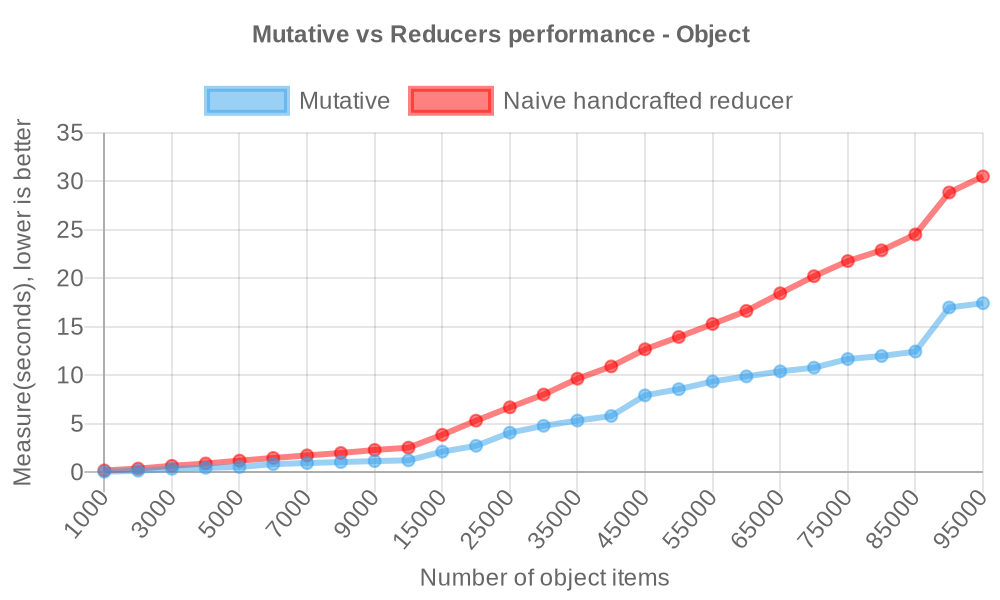
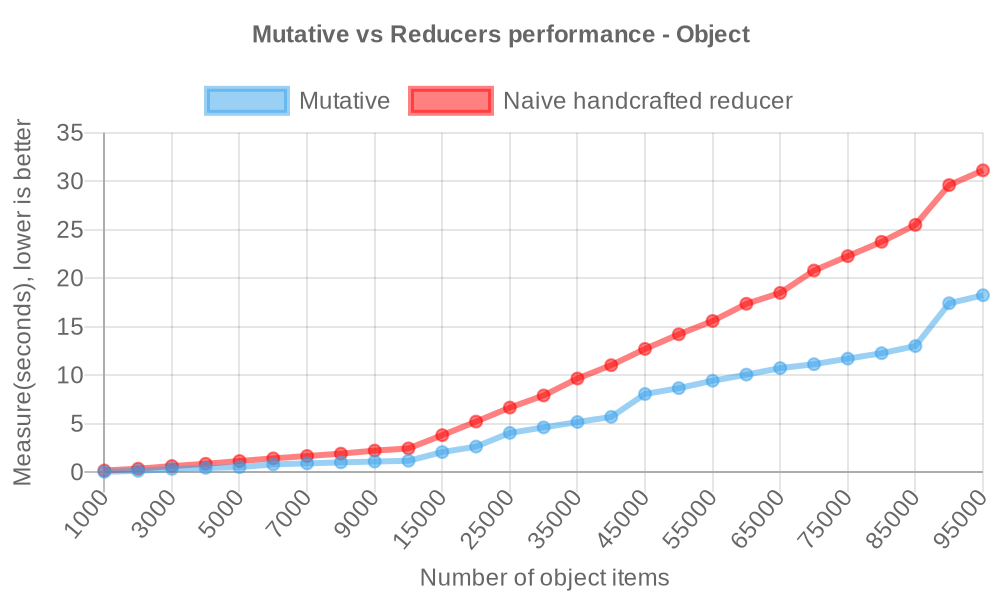
docs(perf): update perf data

diff --git a/website/docs/getting-started/performance.md b/website/docs/getting-started/performance.md
@@ -87,18 +87,18 @@ Measure(ops/sec) to update 50K arrays and 1K objects, bigger is better([view sou
 ![Benchmark](img/benchmark.jpg)
 
 ```
-Naive handcrafted reducer - No Freeze x 4,670 ops/sec ±0.64% (96 runs sampled)
-Mutative - No Freeze x 6,747 ops/sec ±0.61% (95 runs sampled)
-Immer - No Freeze x 5.65 ops/sec ±1.53% (19 runs sampled)
+Naive handcrafted reducer - No Freeze x 4,777 ops/sec ±1.06% (94 runs sampled)
+Mutative - No Freeze x 6,783 ops/sec ±0.71% (96 runs sampled)
+Immer - No Freeze x 5.72 ops/sec ±0.39% (19 runs sampled)
 
-Mutative - Freeze x 1,062 ops/sec ±0.74% (95 runs sampled)
-Immer - Freeze x 394 ops/sec ±0.85% (93 runs sampled)
+Mutative - Freeze x 1,069 ops/sec ±0.75% (97 runs sampled)
+Immer - Freeze x 392 ops/sec ±0.66% (92 runs sampled)
 
-Mutative - Patches and No Freeze x 1,011 ops/sec ±0.24% (98 runs sampled)
-Immer - Patches and No Freeze x 5.64 ops/sec ±0.22% (19 runs sampled)
+Mutative - Patches and No Freeze x 1,006 ops/sec ±1.73% (95 runs sampled)
+Immer - Patches and No Freeze x 5.73 ops/sec ±0.16% (19 runs sampled)
 
-Mutative - Patches and Freeze x 545 ops/sec ±1.19% (94 runs sampled)
-Immer - Patches and Freeze x 215 ops/sec ±0.70% (86 runs sampled)
+Mutative - Patches and Freeze x 548 ops/sec ±1.06% (94 runs sampled)
+Immer - Patches and Freeze x 287 ops/sec ±0.84% (93 runs sampled)
 
 The fastest method is Mutative - No Freeze
 ```
@@ -109,7 +109,7 @@ Run `yarn benchmark` to measure performance.
 
 Immer relies on auto-freeze to be enabled, if auto-freeze is disabled, Immer will have a huge performance drop and Mutative will have a huge performance lead, especially with large data structures it will have a performance lead of more than 50x.
 
-So if you are using Immer, you will have to enable auto-freeze for performance. Mutative is disabled auto-freeze by default. With the default configuration of both, we can see the 17x performance gap between Mutative (`6,747 ops/sec`) and Immer (`394 ops/sec`).
+So if you are using Immer, you will have to enable auto-freeze for performance. Mutative is disabled auto-freeze by default. With the default configuration of both, we can see the 17x performance gap between Mutative (`6,783 ops/sec`) and Immer (`392 ops/sec`).
 
 Overall, Mutative has a huge performance lead over Immer in [more performance testing scenarios](https://github.com/unadlib/mutative/tree/main/test/performance). Run `yarn performance` to get all the performance results locally.
 

diff --git a/website/docs/extra-topics/comparison-with-immer.md b/website/docs/extra-topics/comparison-with-immer.md
@@ -31,18 +31,18 @@ Measure(ops/sec) to update 50K arrays and 1K objects, bigger is better([view sou
 ![Benchmark](img/benchmark.jpg)
 
 ```
-Naive handcrafted reducer - No Freeze x 4,670 ops/sec ±0.64% (96 runs sampled)
-Mutative - No Freeze x 6,747 ops/sec ±0.61% (95 runs sampled)
-Immer - No Freeze x 5.65 ops/sec ±1.53% (19 runs sampled)
+Naive handcrafted reducer - No Freeze x 4,777 ops/sec ±1.06% (94 runs sampled)
+Mutative - No Freeze x 6,783 ops/sec ±0.71% (96 runs sampled)
+Immer - No Freeze x 5.72 ops/sec ±0.39% (19 runs sampled)
 
-Mutative - Freeze x 1,062 ops/sec ±0.74% (95 runs sampled)
-Immer - Freeze x 394 ops/sec ±0.85% (93 runs sampled)
+Mutative - Freeze x 1,069 ops/sec ±0.75% (97 runs sampled)
+Immer - Freeze x 392 ops/sec ±0.66% (92 runs sampled)
 
-Mutative - Patches and No Freeze x 1,011 ops/sec ±0.24% (98 runs sampled)
-Immer - Patches and No Freeze x 5.64 ops/sec ±0.22% (19 runs sampled)
+Mutative - Patches and No Freeze x 1,006 ops/sec ±1.73% (95 runs sampled)
+Immer - Patches and No Freeze x 5.73 ops/sec ±0.16% (19 runs sampled)
 
-Mutative - Patches and Freeze x 545 ops/sec ±1.19% (94 runs sampled)
-Immer - Patches and Freeze x 215 ops/sec ±0.70% (86 runs sampled)
+Mutative - Patches and Freeze x 548 ops/sec ±1.06% (94 runs sampled)
+Immer - Patches and Freeze x 287 ops/sec ±0.84% (93 runs sampled)
 
 The fastest method is Mutative - No Freeze
 ```
@@ -53,6 +53,6 @@ Run `yarn benchmark` to measure performance.
 
 Immer relies on auto-freeze to be enabled, if auto-freeze is disabled, Immer will have a huge performance drop and Mutative will have a huge performance lead, especially with large data structures it will have a performance lead of more than 50x.
 
-So if you are using Immer, you will have to enable auto-freeze for performance. Mutative is disabled auto-freeze by default. With the default configuration of both, we can see the 17x performance gap between Mutative (`6,747 ops/sec`) and Immer (`394 ops/sec`).
+So if you are using Immer, you will have to enable auto-freeze for performance. Mutative is disabled auto-freeze by default. With the default configuration of both, we can see the 17x performance gap between Mutative (`6,783 ops/sec`) and Immer (`392 ops/sec`).
 
 Overall, Mutative has a huge performance lead over Immer in [more performance testing scenarios](https://github.com/unadlib/mutative/tree/main/test/performance). Run `yarn performance` to get all the performance results locally.

diff --git a/website/blog/releases/1.0/index.md b/website/blog/releases/1.0/index.md
@@ -99,18 +99,18 @@ Measure(ops/sec) to update 50K arrays and 1K objects, bigger is better([view sou
 ![Benchmark](img/benchmark.jpg)
 
 ```
-Naive handcrafted reducer - No Freeze x 4,670 ops/sec ±0.64% (96 runs sampled)
-Mutative - No Freeze x 6,747 ops/sec ±0.61% (95 runs sampled)
-Immer - No Freeze x 5.65 ops/sec ±1.53% (19 runs sampled)
+Naive handcrafted reducer - No Freeze x 4,777 ops/sec ±1.06% (94 runs sampled)
+Mutative - No Freeze x 6,783 ops/sec ±0.71% (96 runs sampled)
+Immer - No Freeze x 5.72 ops/sec ±0.39% (19 runs sampled)
 
-Mutative - Freeze x 1,062 ops/sec ±0.74% (95 runs sampled)
-Immer - Freeze x 394 ops/sec ±0.85% (93 runs sampled)
+Mutative - Freeze x 1,069 ops/sec ±0.75% (97 runs sampled)
+Immer - Freeze x 392 ops/sec ±0.66% (92 runs sampled)
 
-Mutative - Patches and No Freeze x 1,011 ops/sec ±0.24% (98 runs sampled)
-Immer - Patches and No Freeze x 5.64 ops/sec ±0.22% (19 runs sampled)
+Mutative - Patches and No Freeze x 1,006 ops/sec ±1.73% (95 runs sampled)
+Immer - Patches and No Freeze x 5.73 ops/sec ±0.16% (19 runs sampled)
 
-Mutative - Patches and Freeze x 545 ops/sec ±1.19% (94 runs sampled)
-Immer - Patches and Freeze x 215 ops/sec ±0.70% (86 runs sampled)
+Mutative - Patches and Freeze x 548 ops/sec ±1.06% (94 runs sampled)
+Immer - Patches and Freeze x 287 ops/sec ±0.84% (93 runs sampled)
 
 The fastest method is Mutative - No Freeze
 ```
@@ -121,7 +121,7 @@ Run `yarn benchmark` to measure performance.
 
 Immer relies on auto-freeze to be enabled, if auto-freeze is disabled, Immer will have a huge performance drop and Mutative will have a huge performance lead, especially with large data structures it will have a performance lead of more than 50x.
 
-So if you are using Immer, you will have to enable auto-freeze for performance. Mutative is disabled auto-freeze by default. With the default configuration of both, we can see the 17x performance gap between Mutative (`6,747 ops/sec`) and Immer (`394 ops/sec`).
+So if you are using Immer, you will have to enable auto-freeze for performance. Mutative is disabled auto-freeze by default. With the default configuration of both, we can see the 17x performance gap between Mutative (`6,783 ops/sec`) and Immer (`392 ops/sec`).
 
 Overall, Mutative has a huge performance lead over Immer in [more performance testing scenarios](https://github.com/unadlib/mutative/tree/main/test/performance).
 

diff --git a/README.md b/README.md
@@ -109,7 +109,7 @@ Mutative is up to 6x faster than naive handcrafted reducer for updating immutabl
 
 > Mutative passed all of Immer's test cases.
 
-Measure(ops/sec) to update 50K arrays and 1K objects, bigger is better([view source](https://github.com/unadlib/mutative/blob/main/test/performance/benchmark.ts)). [Mutative v1.3.0 vs Immer v10.1.1]
+Measure(ops/sec) to update 50K arrays and 1K objects, bigger is better([view source](https://github.com/unadlib/mutative/blob/main/test/performance/benchmark.ts)). [Mutative v1.3.0 vs Immer v10.1.3]
 
 ![Benchmark](benchmark.jpg)
 
@@ -136,7 +136,7 @@ Run `yarn benchmark` to measure performance.
 
 Immer relies on auto-freeze to be enabled, if auto-freeze is disabled, Immer will have a huge performance drop and Mutative will have a huge performance lead, especially with large data structures it will have a performance lead of more than 50x.
 
-So if you are using Immer, you will have to enable auto-freeze for performance. Mutative is disabled auto-freeze by default. With the default configuration of both, we can see the 17x performance gap between Mutative (`6,747 ops/sec`) and Immer (`394 ops/sec`).
+So if you are using Immer, you will have to enable auto-freeze for performance. Mutative is disabled auto-freeze by default. With the default configuration of both, we can see the 17x performance gap between Mutative (`6,783 ops/sec`) and Immer (`392 ops/sec`).
 
 Overall, Mutative has a huge performance lead over Immer in [more performance testing scenarios](https://github.com/unadlib/mutative/tree/main/test/performance). Run `yarn performance` to get all the performance results locally.
 
